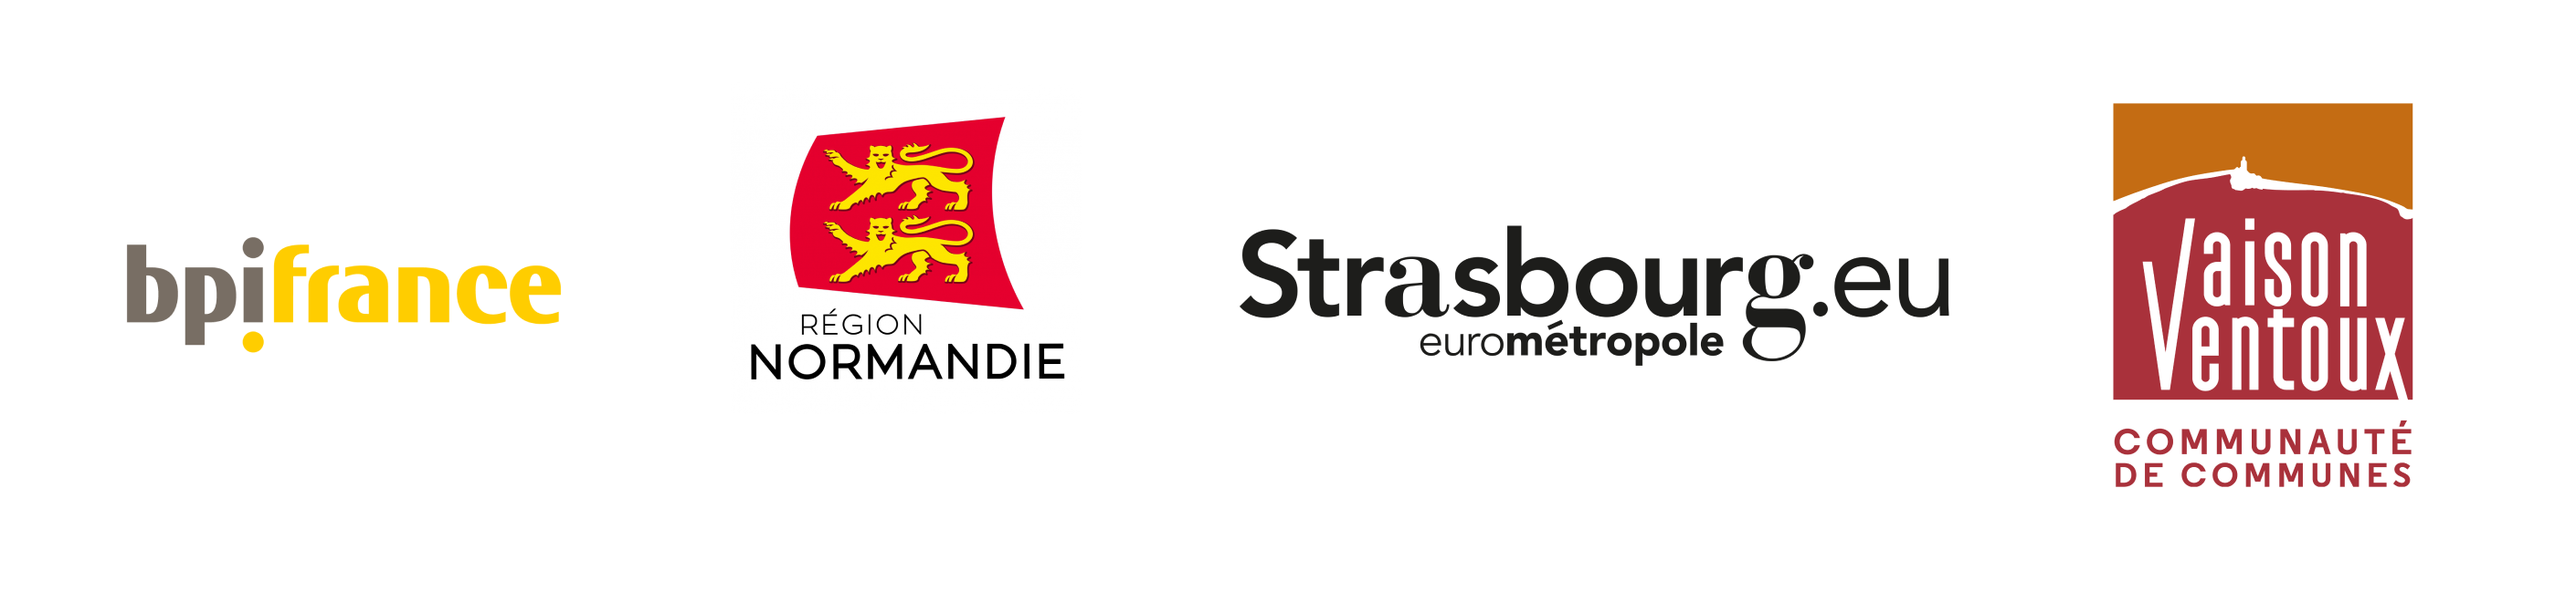
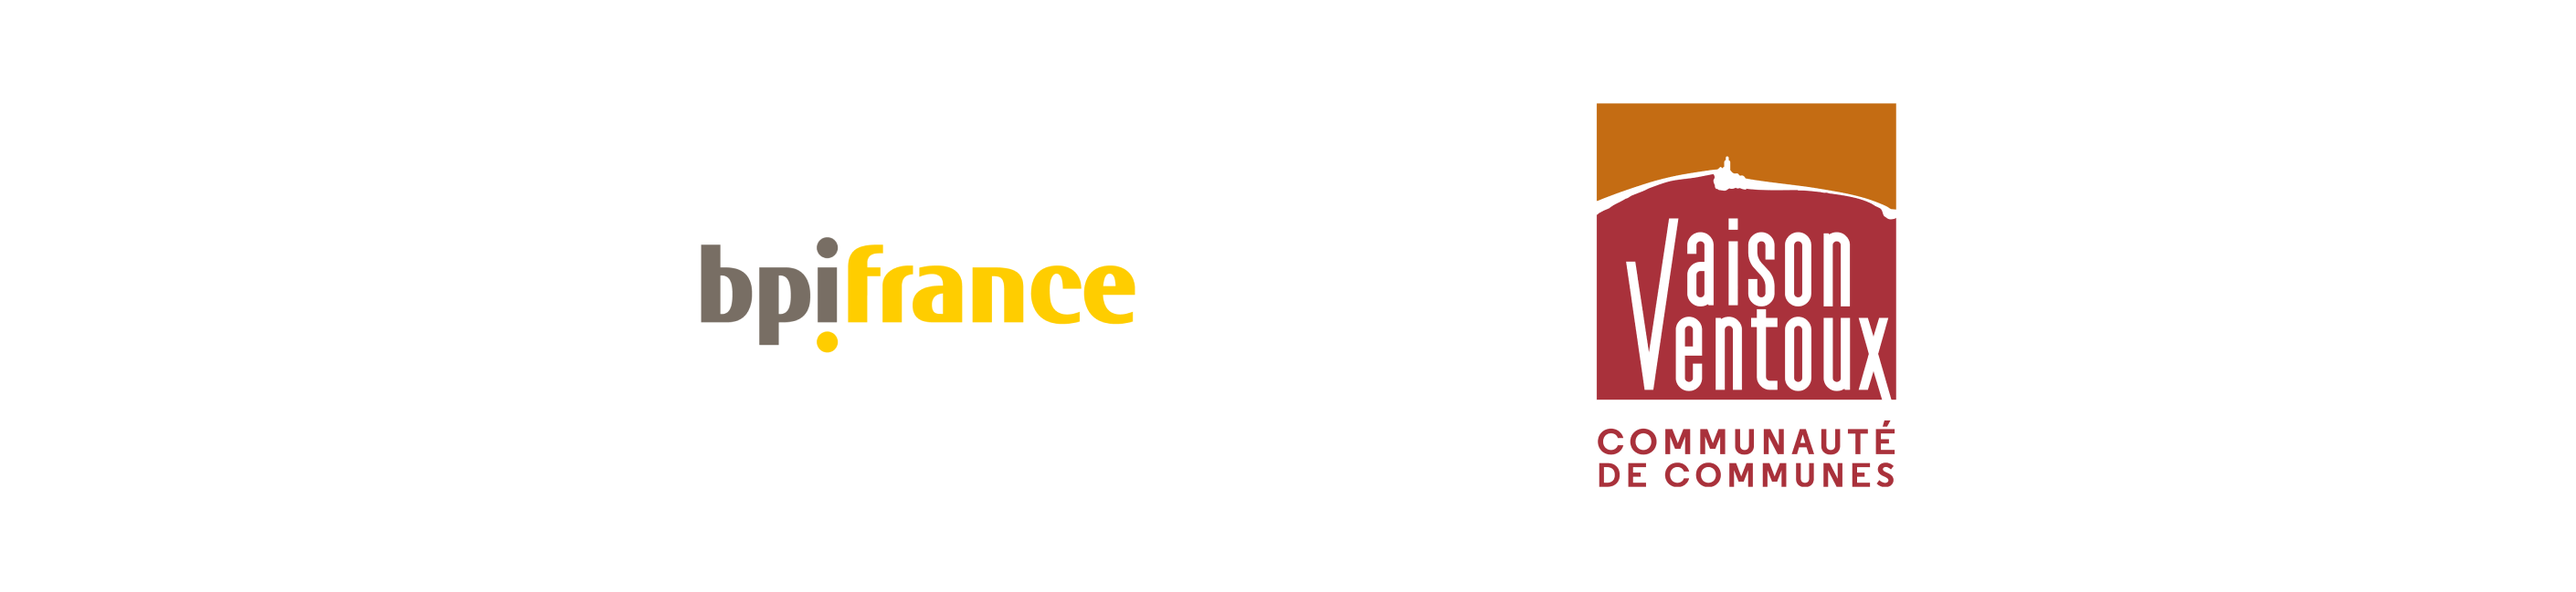
Rectification exemples préremplissage sécurisé

diff --git a/_use_cases/preremplissage_securise.md b/_use_cases/preremplissage_securise.md
@@ -133,8 +133,6 @@ Ils utilisent déjà l'API Entreprise pour pré-remplir des formulaires, accessi
 
 - **Des communes et intercommunalités** : 
 La communauté de communes de Vaison Ventoux propose une [carte aux professionnels permettant d'accéder aux déchetteries de son territoire](http://www.vaison-ventoux.fr/cadre-de-vie-solidarite/dechets/l-acces-a-la-carte-de-dechetterie-pour-les-professionnels.htm){:target="_blank"}. Le formulaire accessible sous connexion sécurisée FranceConnect, est directement pré-remplit des informations disponibles par API Entreprise.
-- **Des métropoles** : Eurométropole de Strasbourg
-- **Des régions** : Normandie
 - **Des opérateurs** : BPI France financement
 
 {% asset 'cas-usage/cas-usage-preremplissage-securise-exemples.png' %}
